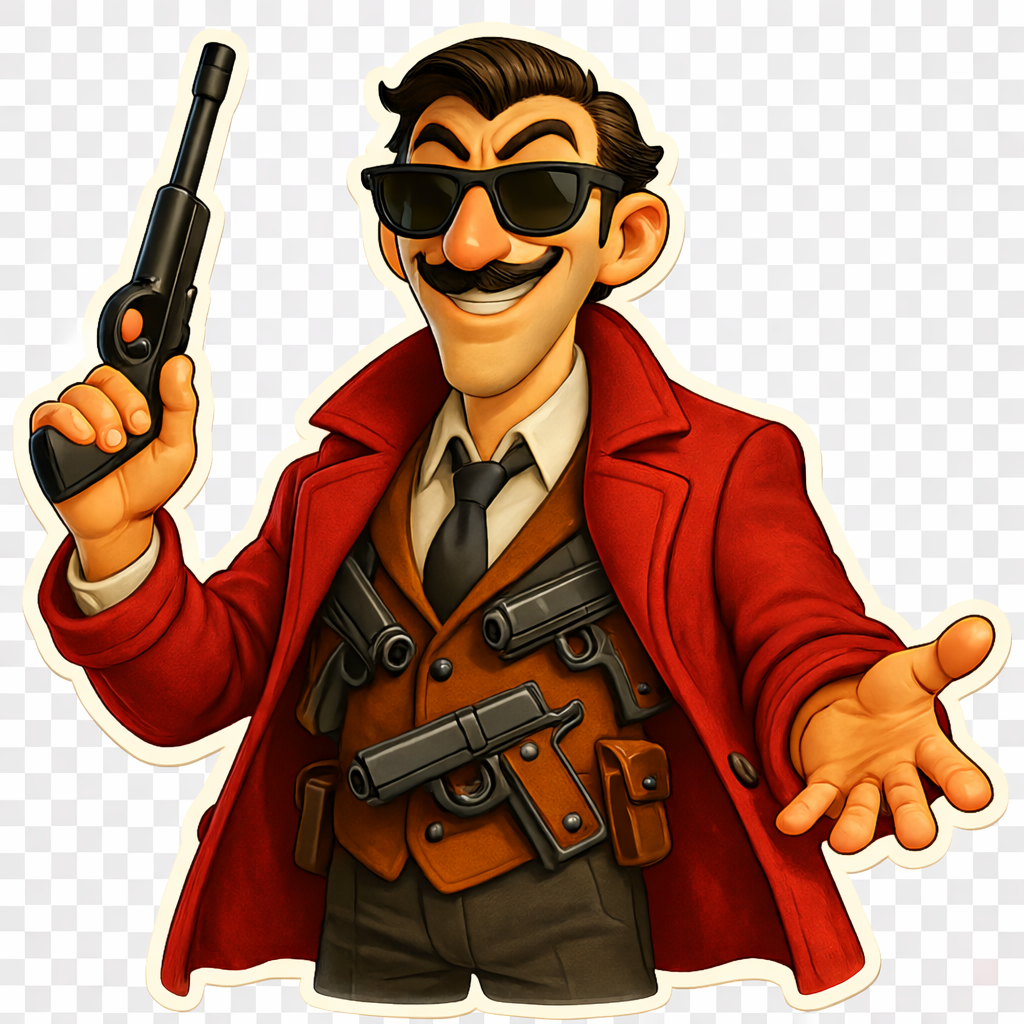
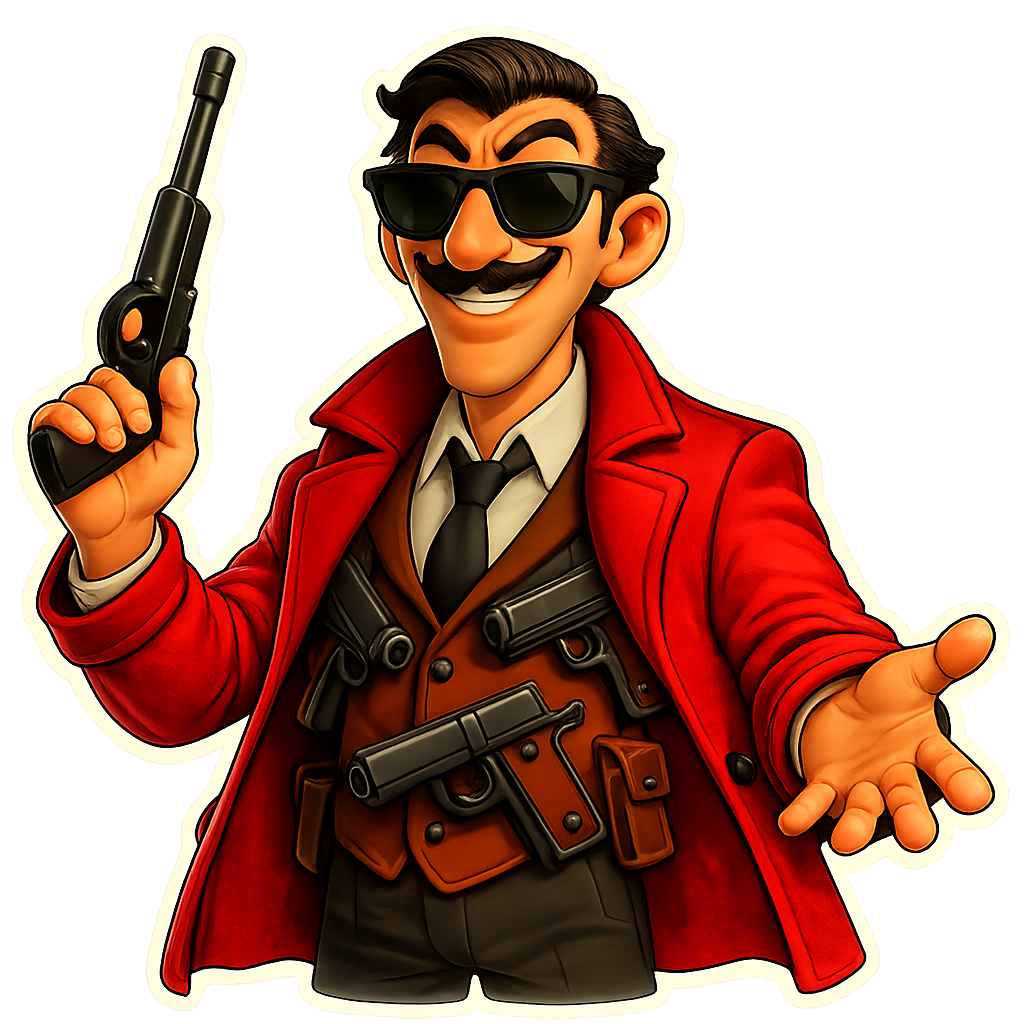
fix: cards full-color on other turns, random restart, red gunman sprite
- PlayerHand: switch playableCards from useState+useEffect to useMemo so
  playable state is always in sync with the current render — eliminates the
  stale-value flicker that caused cards to briefly appear grayed at turn start
- PlayerHand: add disabled:opacity-100 to card buttons so the browser's native
  disabled-element styling cannot dim them during other players' turns
- GameBoard restartGame: randomise starting player on restart, same as on
  initial load (was hardcoded to setCurrentPlayerIndex(0))
- Updated red/gunman.png sprite

diff --git a/src/app/components/game/PlayerHand.tsx b/src/app/components/game/PlayerHand.tsx
@@ -2,7 +2,7 @@ import type { Card as CardType } from "../../features/game/types"
 import { clsx } from "clsx"
 import { twMerge } from "tailwind-merge"
 const cn = (...args: Parameters<typeof clsx>) => twMerge(clsx(...args))
-import { useEffect, useState } from "react"
+import { useMemo, useState } from "react"
 import { isCardPlayable } from "../../features/game/game-logic"
 import { useLang } from "../../context/LanguageContext"
 
@@ -63,16 +63,15 @@ const getPlayerBorderColor = (playerId: string): string => {
 }
 
 export default function PlayerHand({ cards, onSelectCard, selectedCardId, disabled = false, isDiscardMode = false, gameState, playerId, newlyDealtCardIds = [] }: PlayerHandProps) {
-  const [playableCards, setPlayableCards] = useState<Record<string, boolean>>({})
+  // Compute synchronously so there is never a stale-state flicker when turns change
+  const playableCards = useMemo(() => {
+    const status: Record<string, boolean> = {}
+    cards.forEach((card) => { status[card.id] = isCardPlayable(gameState, playerId, card.id) })
+    return status
+  }, [cards, gameState, playerId])
   const [infoCardId, setInfoCardId] = useState<string | null>(null)
   const borderColor = getPlayerBorderColor(playerId)
   const { t } = useLang()
-
-  useEffect(() => {
-    const status: Record<string, boolean> = {}
-    cards.forEach((card) => { status[card.id] = isCardPlayable(gameState, playerId, card.id) })
-    setPlayableCards(status)
-  }, [cards, gameState, playerId])
 
   const infoCard = infoCardId ? cards.find((c) => c.id === infoCardId) ?? null : null
 
@@ -97,7 +96,7 @@ export default function PlayerHand({ cards, onSelectCard, selectedCardId, disabl
                 disabled={isSelected ? false : (disabled || (!isDiscardMode && (!playableCards[card.id] || isSecondDisplacementLocked)))}
                 title={showDisabled ? t("game.no_gangsters") : ""}
                 className={cn(
-                  `w-14 h-20 lg:w-20 lg:h-28 rounded-md border-2 ${borderColor} overflow-hidden transition-all block`,
+                  `w-14 h-20 lg:w-20 lg:h-28 rounded-md border-2 ${borderColor} overflow-hidden transition-all block disabled:opacity-100`,
                   isSelected ? "ring-2 ring-white scale-105" : "",
                   isDiscardMode ? "hover:ring-2 hover:ring-red-500 cursor-pointer" : "",
                   showDisabled ? "opacity-50 grayscale cursor-not-allowed" : !isDiscardMode ? "hover:scale-105 cursor-pointer" : "",

diff --git a/src/app/components/game/GameBoard.tsx b/src/app/components/game/GameBoard.tsx
@@ -1542,7 +1542,8 @@ export default function GameBoard({ playerCount, seatingType = "automatic", game
 
   const restartGame = () => {
     const newGameState = getInitialState()
-    setGameState(newGameState); setCurrentPlayerIndex(0); setSelectedGangsterIndex(null); setSelectedCardId(null)
+    const newStartIdx = gameMode === "multiplayer" ? 0 : Math.floor(Math.random() * playerCount)
+    setGameState(newGameState); setCurrentPlayerIndex(newStartIdx); setSelectedGangsterIndex(null); setSelectedCardId(null)
     setSelectedDirection(null); setTargetPositionId(null); setGameOver(false)
     setValidGangsters([]); setValidTargets([]); setValidCakes([]); setValidDirections([])
     setPillsApplied(0); setPendingPillTargetIds([]); setValidPillTargets([])